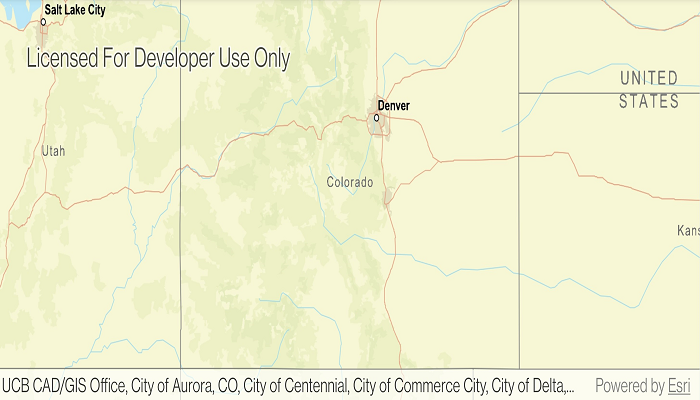
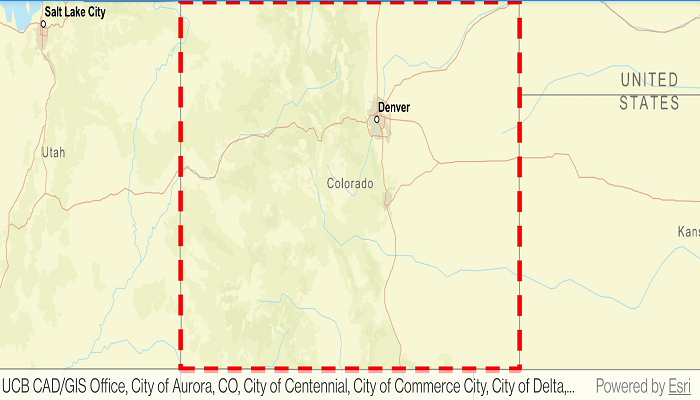
PR fixes

diff --git a/kotlin/set-max-extent/src/main/java/com/esri/arcgisruntime/sample/setmaxextent/MainActivity.kt b/kotlin/set-max-extent/src/main/java/com/esri/arcgisruntime/sample/setmaxextent/MainActivity.kt
@@ -16,6 +16,7 @@
 
 package com.esri.arcgisruntime.sample.setmaxextent
 
+import android.graphics.Color
 import android.os.Bundle
 import androidx.appcompat.app.AppCompatActivity
 import com.esri.arcgisruntime.ArcGISRuntimeEnvironment
@@ -23,8 +24,12 @@ import com.esri.arcgisruntime.geometry.Envelope
 import com.esri.arcgisruntime.geometry.Point
 import com.esri.arcgisruntime.mapping.ArcGISMap
 import com.esri.arcgisruntime.mapping.BasemapStyle
+import com.esri.arcgisruntime.mapping.view.Graphic
+import com.esri.arcgisruntime.mapping.view.GraphicsOverlay
 import com.esri.arcgisruntime.mapping.view.MapView
 import com.esri.arcgisruntime.sample.setmaxextent.databinding.ActivityMainBinding
+import com.esri.arcgisruntime.symbology.SimpleLineSymbol
+import com.esri.arcgisruntime.symbology.SimpleRenderer
 
 class MainActivity : AppCompatActivity() {
 
@@ -44,15 +49,27 @@ class MainActivity : AppCompatActivity() {
         // location services
         ArcGISRuntimeEnvironment.setApiKey(BuildConfig.API_KEY)
 
-        // create a map with the BasemapStyle streets
-        val map = ArcGISMap(BasemapStyle.ARCGIS_STREETS).apply {
+        // create a map with the BasemapStyle streets focused on Colorado
+        val coloradoMap = ArcGISMap(BasemapStyle.ARCGIS_STREETS).apply {
             // set the map's max extent to an envelope of Colorado's northwest and southeast corners
             maxExtent =
                 Envelope(Point(-12139393.2109, 5012444.0468), Point(-11359277.5124, 4438148.7816))
         }
 
-        // set the map to be displayed in the layout's MapView
-        mapView.map = map
+        // create a graphics overlay of the map's max extent
+        val coloradoGraphicsOverlay = GraphicsOverlay().apply {
+            // set the graphic's geometry to the max extent of the map
+            graphics.add(Graphic(coloradoMap.maxExtent))
+            // create a simple red dashed line renderer
+            renderer = SimpleRenderer(SimpleLineSymbol(SimpleLineSymbol.Style.DASH, Color.RED, 5f))
+        }
+
+        mapView.apply {
+            // set the map to the map view
+            map = coloradoMap
+            // set the graphics overlay to the map view
+            graphicsOverlays.add(coloradoGraphicsOverlay)
+        }
     }
 
     override fun onPause() {
